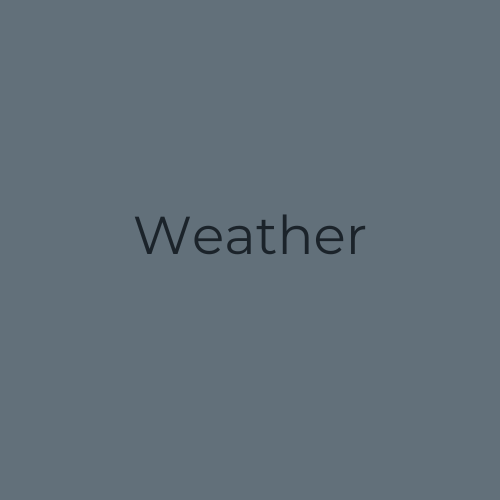
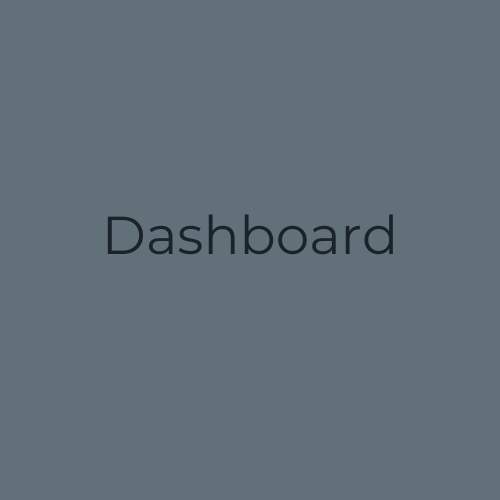
style: change themes and UI

Changed region(s): [[0.21, 0.42, 0.81, 0.51]]

diff --git a/app/src/components/Projects.tsx b/app/src/components/Projects.tsx
@@ -28,44 +28,52 @@ const Projects: React.FC = () => {
 
   const projects: Project[] = [
     {
-      title: "WebScrap",
+      title: "Dashboard",
       image: "/images/dashboard.png",
       siteUrl: "https://velty-dashboard-guilhermesantiago18.vercel.app/",
       repositoryUrl: "https://github.com/GuilhermeSantiago18/Velty-Dashboard",
       description:
-        "This project performs webscrap searching for real-time information from Mercado Livre and Buscapé, being able to choose by categories and filters.",
+        "Static sales panel based on figma, to improve visualization for companies, can be improved and become functional.",
     },
     {
-      title: "DashBoard",
+      title: "Webscrap",
       image: "/images/webscrap.png",
       siteUrl: "https://lexart-app.up.railway.app/",
       repositoryUrl: "https://github.com/GuilhermeSantiago18/FullStackProject",
       description:
-        "This project performs webscrap searching for real-time information from Mercado Livre and Buscapé, being able to choose by categories and filters.",
+        "This project performs webscrap searching for real time information from Mercado Livre and Buscapé, being able to choose by categories and filters.",
     },
     {
-      title: "WebScrap",
-      image: "/images/trivia.png",
+      title: "Trivia",
+      image: "/images/triviagame.png",
       siteUrl: "https://lexart-app.up.railway.app/",
       repositoryUrl: "https://github.com/GuilhermeSantiago18/FullStackProject",
       description:
-        "This project performs webscrap searching for real-time information from Mercado Livre and Buscapé, being able to choose by categories and filters.",
+        "Jogo Trivia, fazendo chamadas para a API Trivia. Excelente jogo para testar seus conhecimentos gerais e jogar com amigos.",
     },
     {
-      title: "WebScrap",
+      title: "Weather",
       image: "/images/weather.png",
       siteUrl: "https://lexart-app.up.railway.app/",
       repositoryUrl: "https://github.com/GuilhermeSantiago18/FullStackProject",
       description:
-        "This project performs webscrap searching for real-time information from Mercado Livre and Buscapé, being able to choose by categories and filters.",
+        "Simple application, which makes calls to the Weather API, created to show the temperature of all cities in the world.",
     },
     {
-      title: "WebScrap",
-      image: "/images/webscrap.png",
+      title: "Portfolio",
+      image: "/images/portfolio.png",
       siteUrl: "https://lexart-app.up.railway.app/",
       repositoryUrl: "https://github.com/GuilhermeSantiago18/FullStackProject",
       description:
-        "This project performs webscrap searching for real-time information from Mercado Livre and Buscapé, being able to choose by categories and filters.",
+        "Personal portfolio so you can get to know me a little more and get to know my skills.",
+    },
+    {
+      title: "WebScrap",
+      image: "/images/guilhermefc.png",
+      siteUrl: "https://lexart-app.up.railway.app/",
+      repositoryUrl: "https://github.com/GuilhermeSantiago18/FullStackProject",
+      description:
+        "Fullstack application where you make requests from the backend to the frontend about data from a football championship.",
     },
   ];
 
@@ -86,13 +94,13 @@ const Projects: React.FC = () => {
         </Typography>
         </Grow>
        </Box>
-        <Grid container justifyContent="flex-start" spacing={2} mt={1}>
+        <Grid container justifyContent="flex-start" spacing={2}>
           {projects.map((project, index) => (
             <Grid item key={index} xs={12} sm={6} md={4} lg={3}>
               <Grow in={true} timeout={index * 2000}>
                 <Card
                   sx={{
-                    "&:hover": { boxShadow: 4, border: "2px solid #FF9600" }, borderRadius: 1
+                    "&:hover": { boxShadow: 4, border: "2px solid #E1E2E2" }, borderRadius: 1
                   }}
                 >
                   <CardMedia
@@ -101,20 +109,20 @@ const Projects: React.FC = () => {
                     image={project.image}
                     alt="Project Image"
                   />
-                  <CardContent sx={{ bgcolor: "#E1E2E2" }}>
+                  <CardContent sx={{ bgcolor: "#E1E2E2", minHeight: "180px"}}>
                     <Stack flexDirection="row" justifyContent="space-around">
                       <Link href={project.siteUrl} target="_blank">
-                        <Typography variant="h6" gutterBottom>
+                        <Typography variant="h6">
                           <LanguageIcon color="primary"/>
                         </Typography>
                       </Link>
                       <Link href={project.repositoryUrl} target="_blank">
-                        <Typography variant="h6" gutterBottom>
+                        <Typography variant="h6">
                           <GitHubIcon color="primary"/>
                         </Typography>
                       </Link>
                     </Stack>
-                    <Typography variant="body2" color="text.secondary">
+                    <Typography variant="body2" color="primary" sx={{mt: 1}}>
                       {project.description}
                     </Typography>
                   </CardContent>

diff --git a/app/src/components/Contact.tsx b/app/src/components/Contact.tsx
@@ -92,7 +92,7 @@ const Contact: React.FC = () => {
                 label="Name"
                 value={name}
                 onChange={(e) => setName(e.target.value)}
-                color="primary"
+           
                 fullWidth
               />
             </Grid>
@@ -102,7 +102,7 @@ const Contact: React.FC = () => {
                 fullWidth
                 value={email}
                 onChange={(e) => setEmail(e.target.value)}
-                color="primary"
+              
               />
             </Grid>
             <Grid item xs={12}>
@@ -113,7 +113,8 @@ const Contact: React.FC = () => {
                 rows={4}
                 value={message}
                 onChange={(e) => setMessage(e.target.value)}
-                color="primary"
+                color="secondary"
+         
               />
             </Grid>
             {messageError ? (
@@ -127,7 +128,7 @@ const Contact: React.FC = () => {
               <Button
                 type="submit"
                 variant="outlined"
-                color="primary"
+                color="secondary"
                 onClick={handleSubmit}
                 fullWidth
               >

diff --git a/app/src/Validations/ValidateInputs.tsx b/app/src/Validations/ValidateInputs.tsx
@@ -12,6 +12,10 @@ const validateInputs = (name: string, email: string, message: string): string | 
     if (message.trim().length < 10) {
         return "Please enter at least 10 characters for the message."
     }
+
+    if (message.trim().length > 195) {
+      return "Please enter a maximum of 195 characters for the message."
+  }
   return undefined
   };
   

diff --git a/app/src/themes/theme.tsx b/app/src/themes/theme.tsx
@@ -2,6 +2,7 @@ import { createTheme } from "@mui/material/styles";
 
 export const theme = createTheme({
   palette: {
+    mode: "dark",
     primary: { main: "#1B1300" },
     secondary: { main: "#E1E2E2" },
     background: {default: "#1B232A"}
